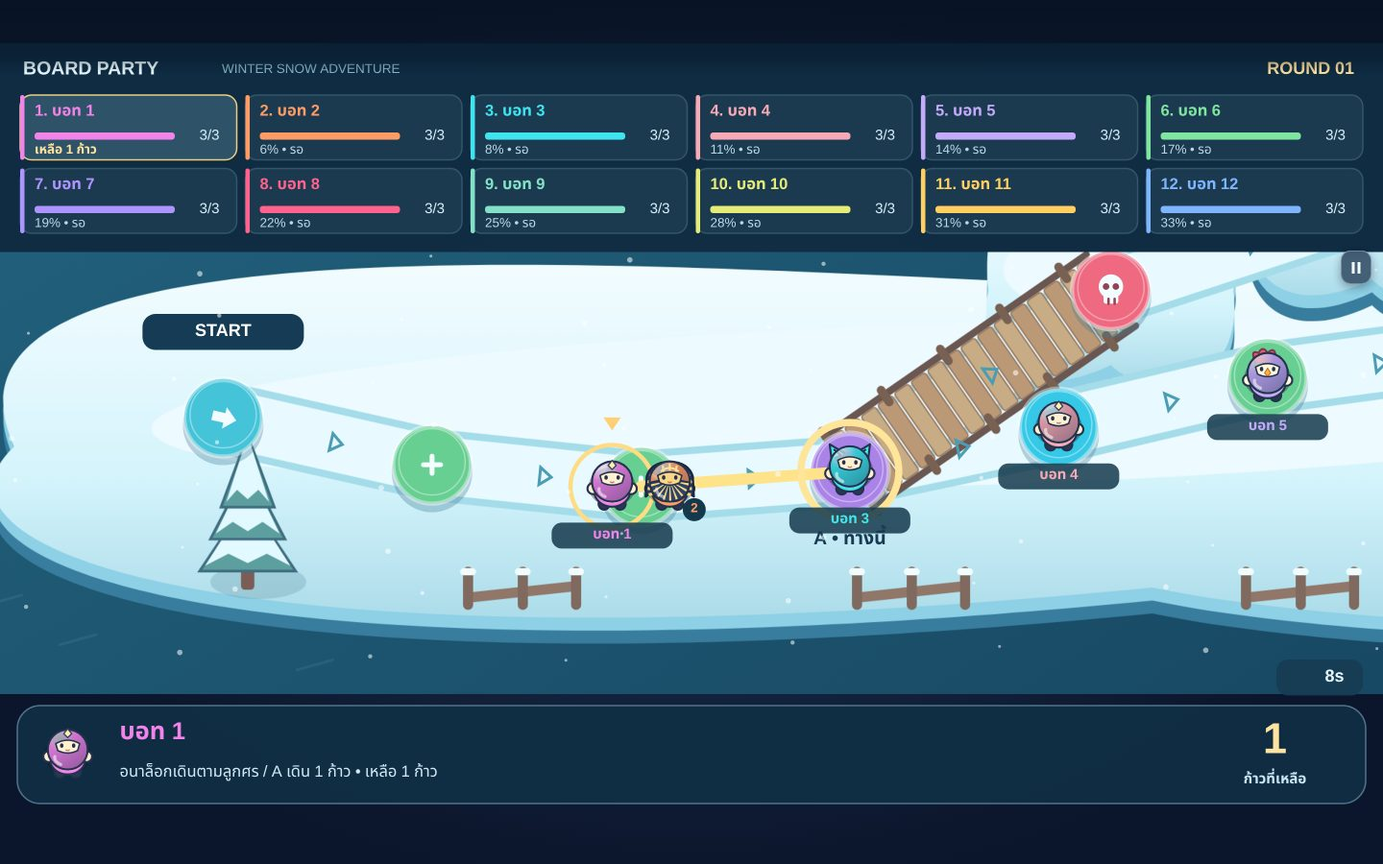
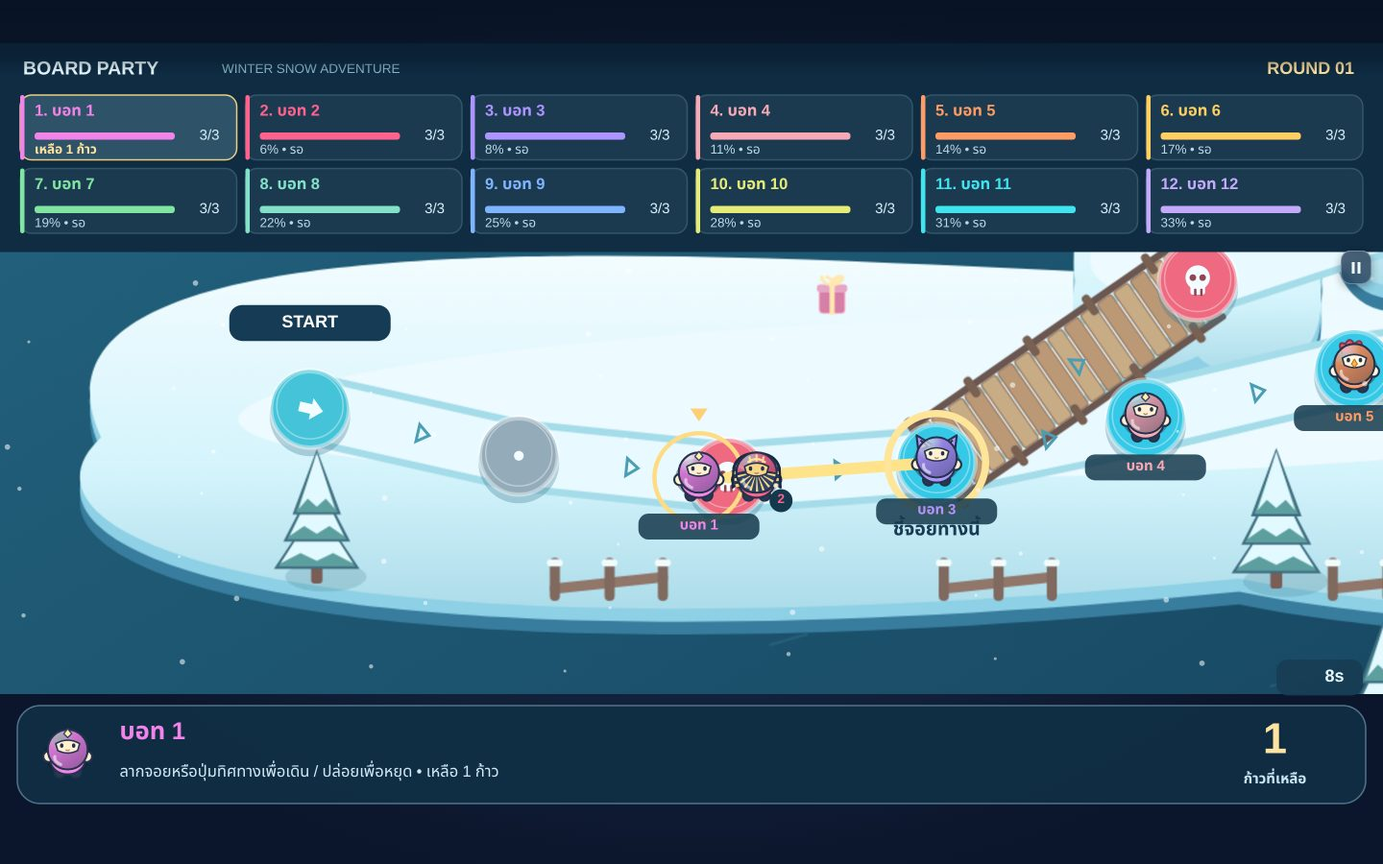
fix: paint board startup immediately and steer continuous forward movement

diff --git a/board-party.js b/board-party.js
@@ -9,6 +9,12 @@ function create(roster,{seed=Date.now(),rng=Math.random}={}){
  phase(s,'order',12);return s;
 }
 function phase(s,name,duration=0){s.phase=name;s.phaseAt=s.time;s.deadline=s.time+duration;s.turnId=s.id+':'+(++s.revision);}
+// A continuous walk owns one input token until it lands; holding the stick
+// across a node must not wait for a network round trip or require another tap.
+function movePhase(s,name,duration=8){
+ if(s.move?.kind!=='walk'){phase(s,name,duration);return;}
+ s.phase=name;s.phaseAt=s.time;s.deadline=s.time+duration;
+}
 const current=s=>s.players.find(p=>p.id===s.order[s.turnIndex]);
 function axes(s,id){const a=s.inputs[id];return a&&s.time-a.at<.9?{x:a.x,y:a.y}:{x:0,y:0};}
 function rollOrder(s,p){if(p.dice||s.phase!=='order')return false;p.dice=[D().roll(s.rng),D().roll(s.rng)];p.rollAt=s.time;return true;}
@@ -50,6 +56,7 @@ function land(s){
 function beginMove(s,p,steps,kind='walk'){
  s.move={playerId:p.id,kind,remaining:steps,total:steps,from:p.currentNodeId,to:null,t:0,visited:[p.currentNodeId],auto:false,expires:kind==='rocket'?s.time+4.5:Infinity};
  if(kind==='walk'&&s.inputs[p.id]){s.inputs[p.id].x=0;s.inputs[p.id].y=0;s.inputs[p.id].at=-Infinity;}
+ phase(s,'move_ready',8);
  nextStep(s);
 }
 function nextStep(s){
@@ -58,29 +65,33 @@ function nextStep(s){
  if(p.currentNodeId===s.map.finishId){win(s,p);return;}
  if(m.remaining<=0||m.stop||s.time>=m.expires||(m.kind==='rocket'&&m.expires-s.time<.48)){land(s);return;}
  const options=s.map.nodes[p.currentNodeId].nextNodes;
- if(options.length>1){s.branch={options:[...options],selected:options[0]};phase(s,'branch',Math.min(m.kind==='walk'&&!m.auto?8:4,m.expires-s.time));return;}
- if(m.kind==='walk'&&!m.auto){phase(s,'move_ready',8);return;}
+ if(options.length>1){s.branch={options:[...options],selected:options[0]};movePhase(s,'branch',Math.min(m.kind==='walk'&&!m.auto?8:4,m.expires-s.time));return;}
+ if(m.kind==='walk'&&!m.auto){movePhase(s,'move_ready');return;}
  step(s,options[0]);
 }
 function step(s,to){
  const m=s.move,p=current(s);
  if(!m||m.to||!s.map.nodes[p.currentNodeId].nextNodes.includes(to)||m.visited.includes(to))return false;
  m.startPosition=I().position(s,p);m.endPosition=I().positionOnNode(s,p,to);
- m.from=p.currentNodeId;m.to=to;m.t=0;phase(s,'moving');return true;
+ m.from=p.currentNodeId;m.to=to;m.t=0;movePhase(s,'moving');return true;
 }
 function roll(s){
  if(s.phase!=='ready'||s.rolled)return false;
  s.rolled=true;s.moveDice=[D().roll(s.rng),D().roll(s.rng)];s.die=s.moveDice[0]+s.moveDice[1];
  phase(s,'dice',1.8);return true;
 }
-function remainingSteps(s,id){return s.move?.playerId===id?s.move.remaining:current(s)?.id===id&&s.phase==='dice'&&s.time-s.phaseAt>=.85?s.die:0;}
-function forwardInput(s,p){
- if(s.inputs[p.id]?.turnId!==s.turnId)return null;
- const a=axes(s,p.id);if(Math.hypot(a.x,a.y)<.25)return null;
- const id=M().choose(s.map,p.currentNodeId,a.x,a.y),from=s.map.nodes[p.currentNodeId].position,to=s.map.nodes[id]?.position;
- if(!to)return null;
+function remainingSteps(s,id){if(!id)return 0;return s.move?.playerId===id?s.move.remaining:current(s)?.id===id&&s.phase==='dice'&&s.time-s.phaseAt>=.85?s.die:0;}
+function forwardForce(s,p,toId){
+ if(s.inputs[p.id]?.turnId!==s.turnId)return 0;
+ const a=axes(s,p.id),strength=Math.hypot(a.x,a.y);if(strength<.25)return 0;
+ const from=s.map.nodes[p.currentNodeId].position,to=s.map.nodes[toId]?.position;if(!to)return 0;
  const dx=to.x-from.x,dy=to.y-from.y;
- return (dx*a.x+dy*a.y)/Math.hypot(dx,dy)/Math.hypot(a.x,a.y)>.35?id:null;
+ const dot=(dx*a.x+dy*a.y)/Math.hypot(dx,dy)/strength;
+ return dot>.35?Math.min(1,strength)*dot:0;
+}
+function forwardInput(s,p){
+ const a=axes(s,p.id),id=M().choose(s.map,p.currentNodeId,a.x,a.y);
+ return forwardForce(s,p,id)>0?id:null;
 }
 function action(s,id,button){
  const p=s.players.find(p=>p.id===id);if(!p||!['A','B'].includes(button))return false;
@@ -92,8 +103,7 @@ function action(s,id,button){
  if(p.id!==current(s)?.id)return false;
  if(s.phase==='ready')return button==='A'?roll(s):I().begin(s,p,api);
  if(s.phase==='aim')return I().confirm(s,button,api);
- if(s.phase==='move_ready'&&button==='A')return step(s,s.map.nodes[p.currentNodeId].nextNodes[0]);
- if(s.phase==='branch'&&button==='A')return step(s,forwardInput(s,p)||s.branch.selected);
+ if(s.phase==='branch'&&s.move?.kind==='rocket'&&button==='A')return step(s,forwardInput(s,p)||s.branch.selected);
  if(s.phase==='moving'&&s.move?.kind==='rocket'&&button==='A'){s.move.stop=true;return true;}
  return false;
 }
@@ -103,7 +113,8 @@ function input(s,id,packet){
  const p=s.players.find(p=>p.id===id);if(!p||s.phase==='finished'||s.phase==='minigame')return false;
  s.lastActions[id]=packet.actionId;
  const old=s.inputs[id]||{},k=packet.keys||{};
- const x=Number.isFinite(k.axisX)?Math.max(-1,Math.min(1,k.axisX)):0,y=Number.isFinite(k.axisY)?Math.max(-1,Math.min(1,k.axisY)):0;
+ const x=Number.isFinite(k.axisX)&&k.axisX!==0?Math.max(-1,Math.min(1,k.axisX)):Number(k.right===true)-Number(k.left===true);
+ const y=Number.isFinite(k.axisY)&&k.axisY!==0?Math.max(-1,Math.min(1,k.axisY)):Number(k.down===true)-Number(k.jump===true);
  const a=k.action===true,b=k.alt===true;
  s.inputs[id]={x,y,a,b,at:s.time,turnId:packet.turnId};
  if(a&&!old.a)action(s,id,'A');else if(b&&!old.b)action(s,id,'B');
@@ -139,9 +150,19 @@ function update(s,dt){
   else if(s.time>=s.deadline){s.move.auto=true;step(s,s.map.nodes[current(s).currentNodeId].nextNodes[0]);}
  }else if(s.phase==='branch'){
   const to=forwardInput(s,current(s));if(to)s.branch.selected=to;
-  if(s.time>=s.deadline){if(s.time>=s.move.expires)land(s);else {if(s.move.kind==='walk')s.move.auto=true;step(s,s.branch.selected);}}
+  if(to&&s.move.kind==='walk'&&!s.move.auto)step(s,to);
+  else if(s.time>=s.deadline){if(s.time>=s.move.expires)land(s);else {if(s.move.kind==='walk')s.move.auto=true;step(s,s.branch.selected);}}
  }else if(s.phase==='moving'){
-  const m=s.move,p=current(s);m.t=Math.min(1,m.t+dt/(m.kind==='rocket'?.48:.34));
+  const m=s.move,p=current(s);
+  let advance=dt/.48;
+  if(m.kind==='walk'){
+   const a=s.map.nodes[m.from].position,b=s.map.nodes[m.to].position;
+   let force=m.auto?1:forwardForce(s,p,m.to);
+   if(force>0)s.deadline=s.time+8;
+   else if(s.time>=s.deadline){m.auto=true;force=1;}
+   advance=dt*250*force/Math.hypot(b.x-a.x,b.y-a.y);
+  }
+  m.walking=advance>0;m.t=Math.min(1,m.t+advance);
   if(m.t>=1){p.currentNodeId=m.to;m.visited.push(m.to);m.to=null;m.remaining--;if(s.map.nodes[p.currentNodeId].type==='milestone')s.milestone={at:s.time,position:s.map.nodes[p.currentNodeId].position};nextStep(s);}
  }else if(s.phase==='aim'||s.phase==='car')I().update(s,dt,api);
  else if(s.phase==='effect'&&s.time>=s.deadline){const next=s.effect.next;s.effect=null;if(next==='ready')ready(s);else endTurn(s);}
@@ -160,9 +181,8 @@ function controls(s,id){
  if(s.phase==='rewards'&&s.pendingItems[id])return{a:'ยืนยัน',b:'',help:'ซ้าย เก็บเดิม / ขวา รับ '+I().names[s.pendingItems[id].item]};
  if(!mine)return{a:'',b:'',help:'รอตาของคุณ • '+(current(s)?.name||'สรุปผล')};
  if(s.phase==='ready')return{a:'ทอย 2 ลูก',b:p.item&&p.usedRound!==s.roundNumber?'ใช้ไอเทม':'',help:'A ทอย 2 ลูก / B ใช้ไอเทมก่อนทอย'};
- if(s.phase==='move_ready')return{a:'เดิน 1 ก้าว',b:'',help:'อนาล็อกเดินตามลูกศร / A เดิน 1 ก้าว • เหลือ '+s.move.remaining+' ก้าว'};
- if(s.phase==='moving'&&s.move?.kind==='walk')return{a:'',b:'',help:(s.move.auto?'ช่วยเดินเมื่อหมดเวลา':'กำลังเดิน')+' • เหลือ '+s.move.remaining+' ก้าว'};
- if(s.phase==='branch')return{a:'เลือกทาง',b:'',help:'อนาล็อกเลือกทาง / A ยืนยัน'};
+ if(s.move?.kind==='walk')return{a:'',b:'',help:(s.move.auto?'ช่วยเดินเมื่อหมดเวลา':'ลากจอยหรือปุ่มทิศทางเพื่อเดิน / ปล่อยเพื่อหยุด')+' • เหลือ '+s.move.remaining+' ก้าว'};
+ if(s.phase==='branch')return{a:'เลือกทาง',b:'',help:'อนาล็อกเลือกทางจรวด / A ยืนยัน'};
  if(s.phase==='aim')return{a:'ยืนยัน',b:s.skill.kind==='bomber'?'หมุน 45°':'',help:s.skill.kind==='ufo'?'เล็งให้สัมผัสตัวละคร / A สลับ':'เลื่อนแนวบิน / B หมุน / A โจมตี'};
  if(s.phase==='car')return{a:'',b:'',help:'อนาล็อกขับตามลูกศร • ระเบิดเมื่อชนหรือครบ 6 วินาที'};
  if(s.phase==='moving'&&s.move?.kind==='rocket')return{a:'ลงช่องถัดไป',b:'',help:'จรวดไปข้างหน้า / A ลงจอด'};

diff --git a/board-art.js b/board-art.js
@@ -2,7 +2,9 @@
 (() => {
 'use strict';
 const TAU=Math.PI*2,colors={start:'#45c4d9',finish:'#ffca63',movement:'#36c9e7',healing:'#68cf93',danger:'#ef6981',event:'#aa83e9',key:'#efad63',milestone:'#edc45b',neutral:'#94acba'};
-const cache=new WeakMap();
+// Keep one bounded terrain surface. Replays explicitly release the old pixels
+// instead of waiting for mobile Safari to collect detached canvases.
+let terrain=null;
 function path(g,points,fill,stroke=null,width=2){g.beginPath();points.forEach((p,i)=>i?g.lineTo(...p):g.moveTo(...p));g.closePath();if(fill){g.fillStyle=fill;g.fill();}if(stroke){g.strokeStyle=stroke;g.lineWidth=width;g.stroke();}}
 function circle(g,x,y,r,fill,stroke=null,w=2){g.beginPath();g.arc(x,y,r,0,TAU);if(fill){g.fillStyle=fill;g.fill();}if(stroke){g.strokeStyle=stroke;g.lineWidth=w;g.stroke();}}
 function box(g,x,y,w,h,r,fill,stroke=null){g.beginPath();g.roundRect(x,y,w,h,r);g.fillStyle=fill;g.fill();if(stroke){g.strokeStyle=stroke;g.lineWidth=1;g.stroke();}}
@@ -84,12 +86,26 @@ function scenery(g,map){
  }
 }
 function ground(g,s){
- let layer=cache.get(s.map);
- if(!layer&&typeof document!=='undefined'){
-  const c=document.createElement('canvas');c.width=s.map.width*2;c.height=s.map.height*2;
-  const ctx=c.getContext('2d');ctx.scale(2,2);scenery(ctx,s.map);layer=c;cache.set(s.map,layer);
+ if(terrain?.map!==s.map){
+  if(terrain?.canvas){terrain.canvas.width=1;terrain.canvas.height=1;}
+  terrain={map:s.map,canvas:null};
+  if(typeof document!=='undefined'){
+   const c=document.createElement('canvas'),scale=Math.min(2,Math.sqrt(3500000/(s.map.width*s.map.height)));
+   try{
+    c.width=Math.floor(s.map.width*scale);c.height=Math.floor(s.map.height*scale);
+    const ctx=c.getContext('2d',{alpha:false});
+    if(ctx){ctx.scale(c.width/s.map.width,c.height/s.map.height);scenery(ctx,s.map);terrain.canvas=c;}
+   }catch(_){/* Direct vector drawing remains available under canvas memory pressure. */}
+   if(!terrain.canvas){c.width=1;c.height=1;}
+  }
  }
- if(layer)g.drawImage(layer,0,0,s.map.width,s.map.height);else scenery(g,s.map);
+ const layer=terrain.canvas;
+ if(layer){
+  const c=s.camera,halfW=480/c.zoom,halfH=(452-(s.players.length>6?145:94))/2/c.zoom;
+  const x=Math.max(0,c.x-halfW-2),y=Math.max(0,c.y-halfH-2),w=Math.min(s.map.width-x,halfW*2+4),h=Math.min(s.map.height-y,halfH*2+4);
+  const sx=layer.width/s.map.width,sy=layer.height/s.map.height;
+  g.drawImage(layer,x*sx,y*sy,w*sx,h*sy,x,y,w,h);
+ }else scenery(g,s.map);
 }
 function nodes(g,s){
  for(const n of Object.values(s.map.nodes))for(const id of n.nextNodes){const a=n.position,b=s.map.nodes[id].position;g.save();g.translate(a.x+(b.x-a.x)*.55,a.y+(b.y-a.y)*.55);g.rotate(Math.atan2(b.y-a.y,b.x-a.x));path(g,[[-5,-6],[3,0],[-5,6]],null,'#4b9db4',2);g.restore();}
@@ -106,7 +122,7 @@ function nodes(g,s){
  if(s.phase==='branch'||s.phase==='move_ready'){
   const p=window.BoardParty.current(s),a=s.map.nodes[p.currentNodeId].position;
   const choices=s.phase==='branch'?s.branch:{options:s.map.nodes[p.currentNodeId].nextNodes,selected:s.map.nodes[p.currentNodeId].nextNodes[0]};
-  for(const id of choices.options){const b=s.map.nodes[id].position,selected=id===choices.selected;line(g,a.x,a.y,b.x,b.y,selected?'#ffe38b':'#75acc4',selected?8:3);circle(g,b.x,b.y,34,null,selected?'#ffe59a':'#fff8',selected?5:2);label(g,selected?'A • ทางนี้':'เลือกทาง',b.x,b.y+48,13,'#173b53','center');}
+  for(const id of choices.options){const b=s.map.nodes[id].position,selected=id===choices.selected;line(g,a.x,a.y,b.x,b.y,selected?'#ffe38b':'#75acc4',selected?8:3);circle(g,b.x,b.y,34,null,selected?'#ffe59a':'#fff8',selected?5:2);label(g,s.move.kind==='walk'?'ชี้จอยทางนี้':selected?'A • ทางนี้':'เลือกทาง',b.x,b.y+48,13,'#173b53','center');}
  }
 }
 function actors(g,s,t){
@@ -119,7 +135,7 @@ function actors(g,s,t){
   if(dead){g.globalAlpha=Math.max(.1,1-(s.time-p.death.at)/1.2);g.translate(xy.x,xy.y);g.rotate((s.time-p.death.at)*2);g.translate(-xy.x,-xy.y);}
   const moving=s.move?.playerId===p.id&&s.move.to,from=moving?s.map.nodes[s.move.from].position:null,to=moving?s.map.nodes[s.move.to].position:null;
   const shake=p.hurtUntil>s.time?Math.sin(t*50)*3:0;
-  window.PartyPlayerAvatar.draw(g,{...p,x:xy.x+shake,y:xy.y,vx:moving?40:0,vy:0,dir:moving?{x:to.x-from.x,y:to.y-from.y}:{x:0,y:-1}},{time:t,scale:.86,label:false,holding:s.effect?.kind==='heal'&&s.effect.targets.includes(p.id)});
+  window.PartyPlayerAvatar.draw(g,{...p,x:xy.x+shake,y:xy.y,vx:moving&&(s.move.kind==='rocket'||s.move.walking)?40:0,vy:0,dir:moving?{x:to.x-from.x,y:to.y-from.y}:{x:0,y:-1}},{time:t,scale:.86,label:false,holding:s.effect?.kind==='heal'&&s.effect.targets.includes(p.id)});
   const crowded=s.players.filter(q=>q.currentNodeId===p.currentNodeId).length>1;
   if(!crowded||p.id===active?.id||p.id===s.skill?.targetId){box(g,xy.x-42,xy.y+25,84,18,7,'#15394cda');label(g,p.name,xy.x,xy.y+34,10,p.color,'center',700,78);}
   else {circle(g,xy.x+17,xy.y+16,8,'#15394c');label(g,(s.order.indexOf(p.id)+1)||s.players.indexOf(p)+1,xy.x+17,xy.y+16,9,p.color,'center');}
@@ -225,10 +241,14 @@ function turnDice(g,s){
  dice(g,s.moveDice?.[1],532,258,70,rolling,s.time+.23);
  label(g,'+',480,257,22,'#a9d8e8','center');
  label(g,settled?s.die+' ก้าว':rolling?'กำลังทอย…':'A • ทอยลูกเต๋า',480,321,24,'#ffe4a4','center');
- label(g,s.phase==='dice'?'ใช้อนาล็อกเดิน หรือกด A ทีละก้าว':'B • ใช้ไอเทมก่อนทอย',480,349,11,'#bcdfed','center',500);
+ label(g,s.phase==='dice'?'ลากจอยเพื่อเดินและเลี้ยว • ปล่อยเพื่อหยุด':'B • ใช้ไอเทมก่อนทอย',480,349,11,'#bcdfed','center',500);
 }
 
 function draw(g,t,s){
+ // The first screen must render without allocating or painting the world map.
+ if(['order','order_result','round_order','standings','rewards','returning'].includes(s.phase)){
+  g.fillStyle='#102e43';g.fillRect(0,0,960,540);overlay(g,s);return;
+ }
  const top=s.players.length>6?145:94,bottom=452,viewH=bottom-top;
  const p=window.BoardParty.current(s)||s.players[0],pos=s.skill||window.BoardItems.position(s,p);
  const wide=s.phase==='aim',zoom=wide?.65:s.phase==='branch'?.83:1;

diff --git a/app.js b/app.js
@@ -172,6 +172,9 @@ function syncArenaResolution(){
 window.addEventListener('resize',markArenaResolutionDirty);
 window.addEventListener('orientationchange',markArenaResolutionDirty);
 window.visualViewport?.addEventListener?.('resize',markArenaResolutionDirty);
+document.addEventListener('fullscreenchange',markArenaResolutionDirty);
+document.addEventListener('webkitfullscreenchange',markArenaResolutionDirty);
+canvas.addEventListener('contextrestored',markArenaResolutionDirty);
 const rand=(a,b)=>a+Math.random()*(b-a);
 const clamp=(n,a,b)=>Math.max(a,Math.min(b,n));
 const cleanName=(value)=>String(value||'').trim().replace(/[<>]/g,'').slice(0,14)||'เพื่อนใหม่';
@@ -1472,12 +1475,19 @@ window.addEventListener('blur',()=>{
 // BOARD PARTY owns a session, not a seventh entry in the minigame registry.
 function boardRegistry(){return Object.fromEntries(Object.keys(ENGINES).map(id=>[id,gameEngine(id)]));}
 function beginBoard(){
+  const required=['BoardMap','BoardDice','BoardItems','BoardBots','BoardMinigame','BoardParty','BoardArt','PartyPlayerAvatar'];
+  if(required.some(name=>!window[name])){showToast('โหลด BOARD PARTY ไม่ครบ กรุณาโหลดหน้าใหม่',true);return;}
   if(!window.BoardMinigame.eligible(boardRegistry(),players.length).length){showToast('ไม่มีมินิเกมที่พร้อมเล่น',true);return;}
-  tournament=null;gameSelection=null;
-  boardSession=window.BoardParty.create(players);
-  players.forEach(p=>{p.active=true;});
-  window.PartyPlayerAvatar.preload(boardSession.players);
-  showBoard();requestHostFullscreen();
+  try{
+    tournament=null;gameSelection=null;
+    boardSession=window.BoardParty.create(players);
+    players.forEach(p=>{p.active=true;});
+    window.PartyPlayerAvatar.preload(boardSession.players);
+    showBoard();requestHostFullscreen();
+  }catch(error){
+    console.error('BOARD PARTY start failed',error);returnToLobby();
+    showToast('เริ่ม BOARD PARTY ไม่สำเร็จ: '+String(error?.message||error).slice(0,100),true);
+  }
 }
 function showBoard(){
   round={mode:'board',phase:'playing',paused:false,remaining:null,autoNextRemaining:0};
@@ -1486,7 +1496,11 @@ function showBoard(){
   $('pauseMenu').classList.add('hidden');$('pauseBtn').classList.remove('hidden');
   $('pauseBtn').setAttribute('aria-expanded','false');$('gameBanner').textContent='';
   document.body.classList.add('board-playing');
-  setView('game');renderLeaderboard();broadcastRoster();
+  setView('game');
+  // Paint the order/result screen in the Start event itself. Safari can delay
+  // its first animation frame during fullscreen; old minigame clips must not survive.
+  canvas.width=canvas.width;markArenaResolutionDirty();drawGame(graphicsClock);
+  renderLeaderboard();broadcastRoster();
   remotePreviewClock=1.1;
   for(const conn of hostConnections)startHostVideoCall(conn);
 }
@@ -1507,7 +1521,8 @@ function updateBoard(dt){
   }
   if(s.phase==='finished'){if(s.time-s.phaseAt>=1.8)finishBoard();return;}
   boardStateClock+=dt;
-  if(boardStateToken!==s.turnId||boardStateClock>.2){broadcastBoardState();boardStateClock=0;boardStateToken=s.turnId;}
+  const stateKey=s.turnId+':'+s.phase+':'+window.BoardParty.remainingSteps(s,window.BoardParty.current(s)?.id);
+  if(boardStateToken!==stateKey||boardStateClock>.2){broadcastBoardState();boardStateClock=0;boardStateToken=stateKey;}
 }
 function broadcastBoardState(){
   if(!boardSession||round?.mode!=='board')return;

diff --git a/board-bots.js b/board-bots.js
@@ -21,12 +21,13 @@ function update(s,dt,api){
  if(s.phase==='rewards')for(const p of s.players.filter(p=>p.isBot&&s.pendingItems[p.id])){
   if(s.time-s.phaseAt>1){const pending=s.pendingItems[p.id];send(s,p,api,p.item==='potion'&&p.hp===3||pending.item==='rocket'?1:-1,0);if(s.time-s.phaseAt>1.3)send(s,p,api,0,0,'A');}
  }
- const p=api.current(s);if(!p?.isBot||s.time-s.phaseAt<.5)return;
+ const p=api.current(s);if(!p?.isBot)return;
+ if(s.time-s.phaseAt<.5&&!(s.phase==='moving'&&s.move?.kind==='walk'))return;
  if(s.phase==='ready'){
   const use=p.item&&p.usedRound!==s.roundNumber&&(p.item==='potion'?p.hp<3:p.item==='shield'?!p.shieldTurns:p.item==='rocket'?true:p.item==='ufo'?!!forwardTarget(s,p):p.item==='car'?!!forwardTarget(s,p,6):s.players.some(q=>q.id!==p.id&&!q.shieldTurns));
   send(s,p,api,0,0,use?'B':'A');
- }else if(s.phase==='move_ready'){
-  const from=s.map.nodes[p.currentNodeId].position,to=s.map.nodes[s.map.nodes[p.currentNodeId].nextNodes[0]].position,d=Math.hypot(to.x-from.x,to.y-from.y);
+ }else if(s.phase==='move_ready'||(s.phase==='moving'&&s.move?.kind==='walk')){
+  const from=s.map.nodes[p.currentNodeId].position,to=s.map.nodes[s.move.to||s.map.nodes[p.currentNodeId].nextNodes[0]].position,d=Math.hypot(to.x-from.x,to.y-from.y);
   send(s,p,api,(to.x-from.x)/d,(to.y-from.y)/d);
  }else if(s.phase==='branch'){
   const opts=s.branch.options;
@@ -34,7 +35,7 @@ function update(s,dt,api){
   const to=[...opts].sort((a,b)=>cost(b)-cost(a))[0],a=s.map.nodes[p.currentNodeId].position,b=s.map.nodes[to].position;
   send(s,p,api,(b.x-a.x)/Math.hypot(b.x-a.x,b.y-a.y),(b.y-a.y)/Math.hypot(b.x-a.x,b.y-a.y));
   // Selection is resolved by the host update before the confirmation arrives.
-  if(s.branch.selected===to)send(s,p,api,0,0,'A');
+  if(s.move.kind==='rocket'&&s.branch.selected===to)send(s,p,api,0,0,'A');
  }else if(s.phase==='aim'){
   const skill=s.skill,q=skill.kind==='ufo'?forwardTarget(s,p):s.players.find(q=>q.id!==p.id&&!q.shieldTurns);
   if(!q)return;

diff --git a/docs/board-party.md b/docs/board-party.md
@@ -7,7 +7,7 @@
 ## วิธีเล่น
 
 1. ทุกคนกด A หรือ B ทอยสองลูกพร้อมกันภายใน 12 วินาที บอท/ผู้ที่ไม่กดจะทอยอัตโนมัติ คะแนนมากเดินก่อน สุ่มเฉพาะกลุ่มแต้มเสมอ แล้วแสดงลำดับทุกคน
-2. ถึงตา: B ใช้ไอเทมก่อนทอย หรือ A ทอย **สองลูกกลางจอ** รวม 2–12 ก้าว หลังเห็นผล ใช้อนาล็อกเดินตามลูกศร หรือแตะ A เดินทีละช่อง จำนวนก้าวที่เหลือแสดงในกรอบตัวละครและจอย ลดเมื่อถึงช่องถัดไปจริงเท่านั้น เมื่อพบทางแยก ใช้อนาล็อกชี้ทางแล้ว A ยืนยัน หากไม่มีคำสั่ง 8 วินาที ระบบช่วยเดินต่อเพื่อป้องกันเกมค้าง
+2. ถึงตา: B ใช้ไอเทมก่อนทอย หรือ A ทอย **สองลูกกลางจอ** รวม 2–12 ก้าว หลังเห็นผล ใช้ **อนาล็อกหรือปุ่มทิศทางเดินต่อเนื่อง** ชี้ทางแยกเพื่อเลี้ยวได้ทันที ไม่ต้องกด A ยืนยัน ปล่อยจอยจะหยุดกลางทาง ความเร็วขึ้นกับแรงจอย ตัวละครเดินได้เฉพาะทางเชื่อมข้างหน้า ย้อนกลับ ออกข้างทาง เปลี่ยนเส้นกลางสะพาน หรือข้ามช่องไม่ได้ จำนวนก้าวที่เหลือแสดงในกรอบตัวละครและจอย ลดเมื่อถึงช่องถัดไปจริงเท่านั้น หากหยุด 8 วินาที ระบบช่วยเดินต่อเพื่อป้องกันเกมค้าง
 3. ลงช่องเขียว HP +1, แดง HP -1, ม่วงสุ่ม +1/-1; HP สูงสุด 3 เมื่อหมดกลับ START พร้อม HP 3 และยังถือไอเทมเดิม ช่องส้มยังเป็นของตกแต่ง ไม่มีระบบสะสมกุญแจ
 4. เมื่อทุกคนจบตา ระบบสุ่มมินิเกม 2.6 วินาที เล่นเกมเดิมจนจบ แล้วแสดงอันดับจริงแบบ 1, 2, 2, 4
 5. แจกไอเทมให้ `floor(จำนวนผู้เล่น / 2)` คนเท่านั้น หากกลุ่มเสมอคร่อมโควตา จะสุ่มสิทธิ์ในกลุ่มนั้นโดยไม่แก้อันดับ ผู้เล่นคนเดียวไม่มีรางวัล
@@ -43,7 +43,7 @@
 - `board-items.js`: การเล็ง/ชนใน world coordinates, atomic swap, เส้นทางรถที่จำ visited nodes, swept collision และ preview ระเบิดชุดเดียวกับตำแหน่งโจมตี
 - `board-bots.js`: บอทส่ง input ผ่านการตรวจ turn/action แบบเดียวกับมือถือ ไม่กำหนดผลเต๋าหรือ teleport
 - `board-minigame.js`: เลือกเอนจินจาก registry เดิม (ตรวจ setup/update/draw และช่วงจำนวนผู้เล่น), อ่านผลของแต่ละเกม, competition ranking และโควตารางวัล
-- `board-art.js`: ภาพวาด Canvas แบบเวกเตอร์ใหม่ แยกพื้น/ฉาก/ช่อง/ตัวละคร/เอฟเฟกต์/HUD ใช้ `player-avatar.js` ซึ่งวาดตัวละคร SVG เดิม กล้อง smooth follow, ฉาก cache ความละเอียด 2x และ Canvas Host ใช้ DPR เดิม
+- `board-art.js`: ภาพวาด Canvas แบบเวกเตอร์ใหม่ แยกพื้น/ฉาก/ช่อง/ตัวละคร/เอฟเฟกต์/HUD ใช้ `player-avatar.js` ซึ่งวาดตัวละคร SVG เดิม กล้อง smooth follow, ฉาก cache ไม่เกิน 3.5 ล้านพิกเซล (เดิม 10.44 ล้าน) วาดเฉพาะพื้นที่กล้อง ปล่อยหน่วยความจำเมื่อเปลี่ยนแมพ และวาดเวกเตอร์โดยตรงได้เมื่อสร้าง cache ไม่สำเร็จ ตัวละคร ช่อง HUD และ Canvas Host ยังใช้ DPR เดิม
 - `app.js`: เพิ่ม session mode `board`; ไม่เพิ่ม BOARD เป็นมินิเกมใน `MODES`/`ENGINES` ส่งต่อ `endRound()` เข้ากระดานก่อน handler ผลปกติ ใช้ roulette และเอนจินเดิมครบทั้งหกตัว รวม PIZZA TIME
 
 เส้นทางสถานะ:
@@ -61,7 +61,9 @@ order -> order_result -> ready -> dice -> move_ready/branch -> moving -> effect
                            ถึง FINISH -> finished -> โหวตเล่นใหม่/ล็อบบี้
 ```
 
-`turnId` เป็น token ของ session + revision และเปลี่ยนทุกขอบเขตควบคุม คำสั่งจอยมี `actionId` เพิ่มขึ้นเสมอ Host ตรวจ token, sequence, เจ้าของ connection, ผู้ที่ถึงตา และขอบขาขึ้นของ A/B คำสั่งซ้ำ/คำสั่งตาเก่าไม่มีผล Pause หยุดทั้ง timer และ simulation; resume เปลี่ยน token
+หน้าทอยลำดับวาดทันทีในคำสั่งเริ่มเกม โดยไม่รอ animation frame หรือสร้างฉากหิมะก่อน รีเซ็ตสถานะ Canvas เมื่อกลับจากมินิเกมเพื่อไม่ให้ clip เก่าซ่อนกระดาน หากไฟล์โหมดโหลดไม่ครบจะแจ้งในล็อบบี้ แทนการเปิดหน้าว่าง
+
+`turnId` เป็น token ของ session + revision และเปลี่ยนเมื่อเริ่ม/จบช่วงควบคุม การเดินต่อเนื่องหนึ่งครั้งใช้ token เดียวข้ามช่องเพื่อให้จอยค้างเดินได้ลื่น คำสั่งจอยมี `actionId` เพิ่มขึ้นเสมอ Host ตรวจ token, sequence, เจ้าของ connection, ผู้ที่ถึงตา และขอบขาขึ้นของ A/B คำสั่งซ้ำ/คำสั่งตาเก่าไม่มีผล Pause หยุดทั้ง timer และ simulation; resume เปลี่ยน token
 
 ตำแหน่งผู้เล่นซ้อน node ใช้ visual offset เท่านั้น Hitbox UFO/ระเบิดใช้ตำแหน่ง world ของ sprite ที่วาดจริง รถ/จรวดเดินได้เฉพาะ `nextNodes` ไม่มีการเปลี่ยน node เพื่อหลบภาพซ้อน
 
@@ -77,20 +79,26 @@ order -> order_result -> ready -> dice -> move_ready/branch -> moving -> effect
 
 ```sh
 node tests/board-party.cjs
+node tests/board-art.cjs
 node tests/smoke.cjs
 node tests/auto-update.cjs
 node tests/svg-only-policy.cjs
 ```
 
-`board-party.cjs` ตรวจ 1,000 seeds, ผู้เล่น 1–12 คน, ผลเต๋าสองลูกครบ 36 แบบ, การเดินด้วย A/อนาล็อกและตัวนับก้าว, คำสั่งค้าง/ซ้ำ/ย้อนทาง, HP, ไอเทมทั้งหก, 250 สถานการณ์ต่อ UFO/Rocket/Bomber/RC Car, อีก 300 การโจมตีใส่โล่และการหมดอายุหลังเปลี่ยนลำดับ, 6,000 ชุดอันดับเสมอและโควตา และ 240 เกมบอทจนถึงเส้นชัย `smoke.cjs` รันเอนจินจริงทั้งหกตัวที่ 1 และ 12 คนจนจบ ผ่าน `app.js` กลับกระดาน/เล่นใหม่/กลับ NORMAL พร้อมทดสอบ connection เก่า, reconnect และคำสั่งตาเก่า
+`board-party.cjs` ตรวจ 1,000 seeds, ผู้เล่น 1–12 คน, ผลเต๋าสองลูกครบ 36 แบบ, การเดินด้วยปุ่มทิศทาง/อนาล็อก การหยุดกลางทาง ตัวนับก้าว และ 300 สถานการณ์พยายามย้อน/ออกนอกทาง/ข้ามช่อง, คำสั่งค้าง/ซ้ำ, HP, ไอเทมทั้งหก, 250 สถานการณ์ต่อ UFO/Rocket/Bomber/RC Car, อีก 300 การโจมตีใส่โล่และการหมดอายุหลังเปลี่ยนลำดับ, 6,000 ชุดอันดับเสมอและโควตา และ 240 เกมบอทจนถึงเส้นชัย `smoke.cjs` รันเอนจินจริงทั้งหกตัวที่ 1 และ 12 คนจนจบ ผ่าน `app.js` กลับกระดาน/เล่นใหม่/กลับ NORMAL พร้อมทดสอบ connection เก่า, reconnect และคำสั่งตาเก่า
 
-Browser test เพิ่มเติมต้องมี Playwright และ Chromium:
+Browser test เพิ่มเติมใช้ Playwright พร้อม Chromium และ WebKit:
 
 ```sh
 npm install --no-save --package-lock=false playwright
 CHROME_PATH=/usr/bin/chromium node tests/board-browser.cjs
+CHROME_PATH=/usr/bin/chromium node tests/board-startup.cjs
+# ติดตั้ง WebKit และไลบรารีของระบบตามคู่มือ Playwright ก่อน
+BOARD_BROWSER=webkit node tests/board-startup.cjs
 ```
 
-สคริปต์เปิด static server ชั่วคราวเอง ตรวจหน้าจอ 1440×900, 1024×768, 844×390 ที่ DPR 2, ผู้เล่น 1–12 คน, ลูกเต๋าสองลูกกลางจอ/ไอเทม/โล่/รางวัล/ลำดับใหม่ และกดพื้นที่ A/B เดินพร้อมตรวจจำนวนก้าวบนจอยและลากอนาล็อกบนหน้า controller จริง ภาพตรวจอยู่ `/tmp/game-friends-board` (ตั้ง `BOARD_SCREENSHOTS` เพื่อเปลี่ยน) การส่งข้อมูลระหว่าง browser ใช้ test harness; เครือข่าย PeerJS/reconnect มี integration mock ใน smoke test ไม่ใช่ผลทดสอบกับโทรศัพท์จริง 12 เครื่องหรือ Safari บน iPad
+สคริปต์เปิด static server ชั่วคราวเอง ตรวจหน้าจอ 1440×900, 1024×768, 844×390 ที่ DPR 2, ผู้เล่น 1–12 คน, ลูกเต๋าสองลูกกลางจอ/ไอเทม/โล่/รางวัล/ลำดับใหม่ และกดพื้นที่ A/B ใช้ไอเทม พร้อมลาก/ปล่อยอนาล็อก เดินข้ามช่องและเลี้ยวโดยไม่กด A และตรวจจำนวนก้าวบนหน้า controller จริง ภาพตรวจอยู่ `/tmp/game-friends-board` (ตั้ง `BOARD_SCREENSHOTS` เพื่อเปลี่ยน) การส่งข้อมูลระหว่าง browser ใช้ test harness; เครือข่าย PeerJS/reconnect มี integration mock ใน smoke test ไม่ใช่ผลทดสอบกับโทรศัพท์จริง 12 เครื่องหรือ Safari บน iPad
+
+`board-startup.cjs` ทดสอบปุ่มเริ่มจริงกับ animation loop บน Chromium/WebKit ที่ 2 และ 12 คน รวมเฟรมแรกที่ล่าช้า, clip ค้างจากจอเดิม, ขนาด cache ที่จำกัด, Canvas พื้นหลังสร้างไม่ได้ และพัก/เล่นต่อ/ออก ส่วน `board-art.cjs` ตรวจงบพิกเซล การใช้ cache ซ้ำและการปล่อยหน่วยความจำ โดยรันใน CI ได้โดยไม่ใช้ browser
 
 เพิ่ม core simulations ใน GitHub Actions และเพิ่ม asset ทั้ง 7 ไฟล์ใน static build versioning แล้ว ทุก minigame engine ใช้โค้ดเดิม ไม่มีการแก้กติกาเกมปกติ

diff --git a/README.md b/README.md
@@ -9,7 +9,7 @@
 
 ## BOARD PARTY — Winter Snow Adventure
 
-เพิ่มโหมดกระดานต่อเนื่องแยกจาก **NORMAL PARTY** เลือก **BOARD PARTY • กระดานหิมะ** ในล็อบบี้ได้ทันที รองรับ 1–12 คน ทอยสองลูกกลางจอ ใช้อนาล็อกหรือ A เดินทีละช่องพร้อมตัวนับก้าว เลือกทางแยก ใช้ไอเทม 6 ชนิดรวมโล่ป้องกัน และเล่นมินิเกมเดิมเมื่อครบหนึ่งรอบ ผู้เล่นครึ่งบนรับไอเทมก่อนกลับกระดานเดิม โดยเรียงตารอบใหม่ตามอันดับมินิเกม ผู้ถึง FINISH ก่อนชนะ
+เพิ่มโหมดกระดานต่อเนื่องแยกจาก **NORMAL PARTY** เลือก **BOARD PARTY • กระดานหิมะ** ในล็อบบี้ได้ทันที รองรับ 1–12 คน ทอยสองลูกกลางจอ ใช้อนาล็อกหรือปุ่มทิศทางเดินต่อเนื่อง ปล่อยเพื่อหยุด ชี้จอยเพื่อเลือกทางแยก พร้อมตัวนับก้าวและระบบกันย้อน/ข้ามช่อง ใช้ไอเทม 6 ชนิดรวมโล่ป้องกัน และเล่นมินิเกมเดิมเมื่อครบหนึ่งรอบ ผู้เล่นครึ่งบนรับไอเทมก่อนกลับกระดานเดิม โดยเรียงตารอบใหม่ตามอันดับมินิเกม ผู้ถึง FINISH ก่อนชนะ
 
 ดู [วิธีเล่น กติกาไอเทม โครงสร้าง และผลการทดสอบ](docs/board-party.md) หรือรัน `node tests/board-party.cjs` และ `node tests/smoke.cjs`
 
